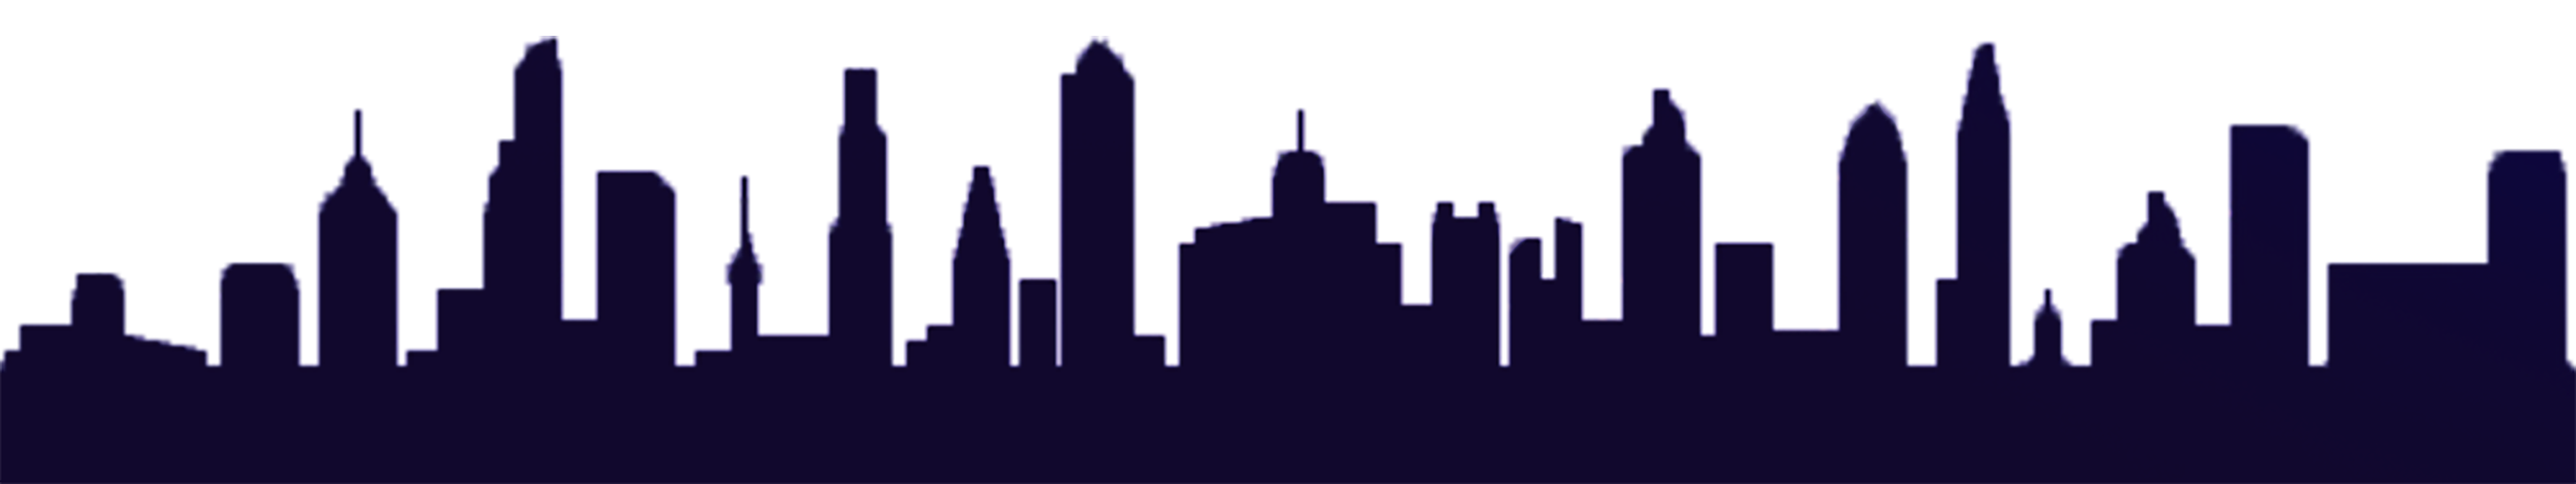
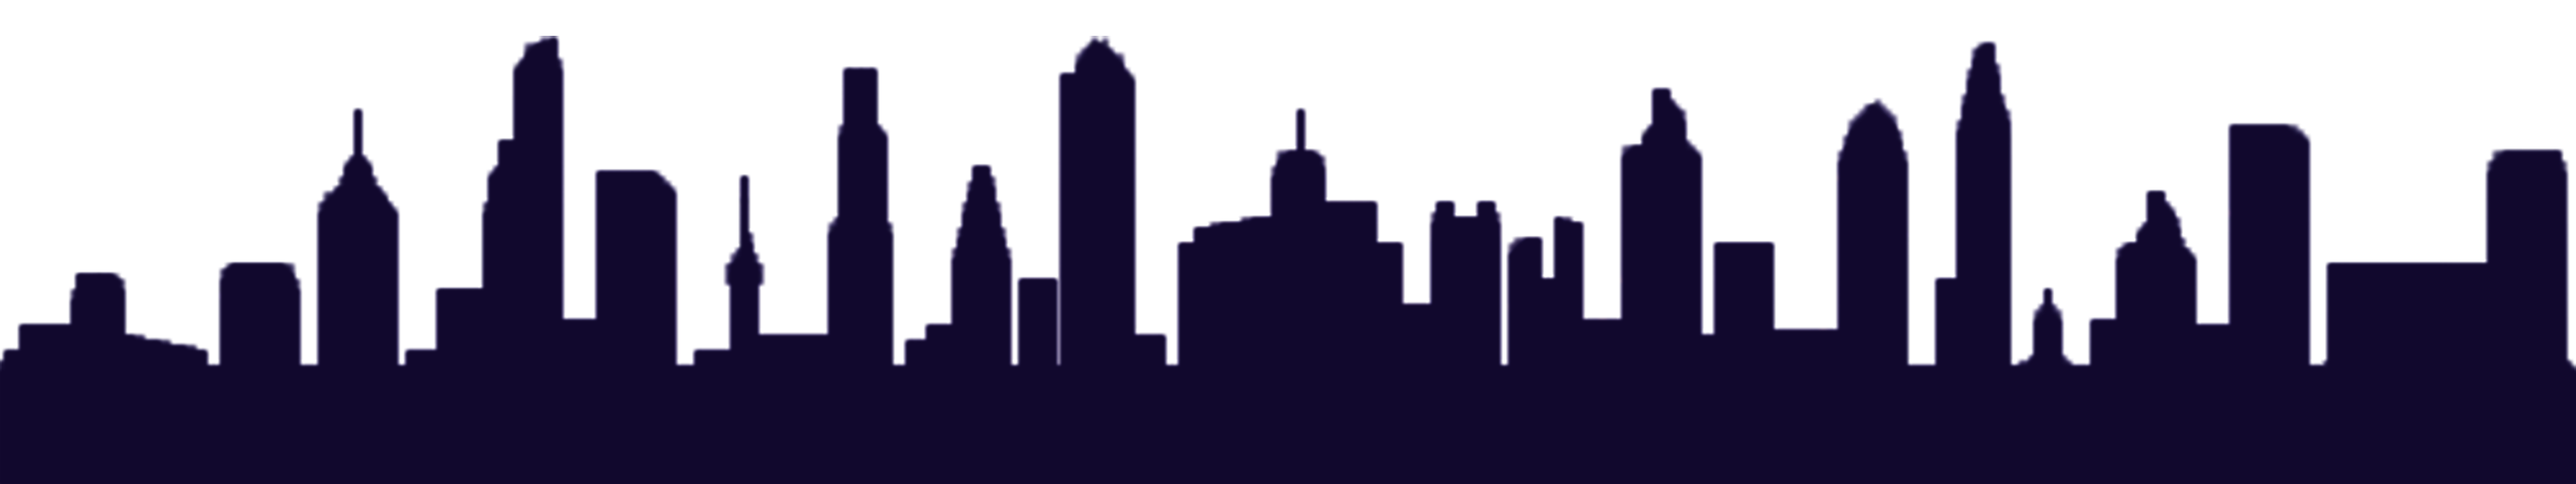
edit css file

diff --git a/src/index.css b/src/index.css
@@ -16,9 +16,9 @@ body {
   width: 100%;
   height: 300px;
   position: absolute;
-  left: -800px;
+  left: -680px;
   bottom: 0;
-  background: url("./assets/city.png") center/contain no-repeat;
+  background: url("./assets/city.png") center/cover no-repeat;
   animation: identifier 90s ease infinite;
 }
 
@@ -26,9 +26,9 @@ body {
   width: 100%;
   height: 300px;
   position: absolute;
-  left: 700px;
+  left: 500px;
   bottom: 0;
-  background: url("./assets/city.png") center/contain no-repeat;
+  background: url("./assets/city.png") center/cover no-repeat;
   animation: identifier 90s ease infinite;
 }
 
@@ -90,4 +90,13 @@ body {
   user-select: none;
   display: flex;
   align-items: center;
+}
+
+@media (max-width: 1200px) {
+  .city {
+    left: -220px;
+  }
+  .city1 {
+    left: 450px;
+  }
 }

diff --git a/src/main.jsx b/src/main.jsx
@@ -2,13 +2,12 @@
 const Input = ({ handleChange, inputValue, hint }) => {
   return (
     <div className="input">
-      <label htmlFor="input">{inputValue && hint}</label>
+      <label htmlFor="input">{inputValue ? hint : "enter a city"}</label>
       <input
         type="text"
         id="input"
         value={inputValue}
         onChange={handleChange}
-        placeholder="enter a city"
       />
     </div>
   );

diff --git a/src/App.jsx b/src/App.jsx
@@ -16,9 +16,6 @@ function App() {
     setHint(matchinghint);
   }, [inputValue]);
 
-  console.log(inputValue);
-  console.log(hint);
-
   return (
     <div className="bg">
       <Input handleChange={handleChange} inputValue={inputValue} hint={hint} />
